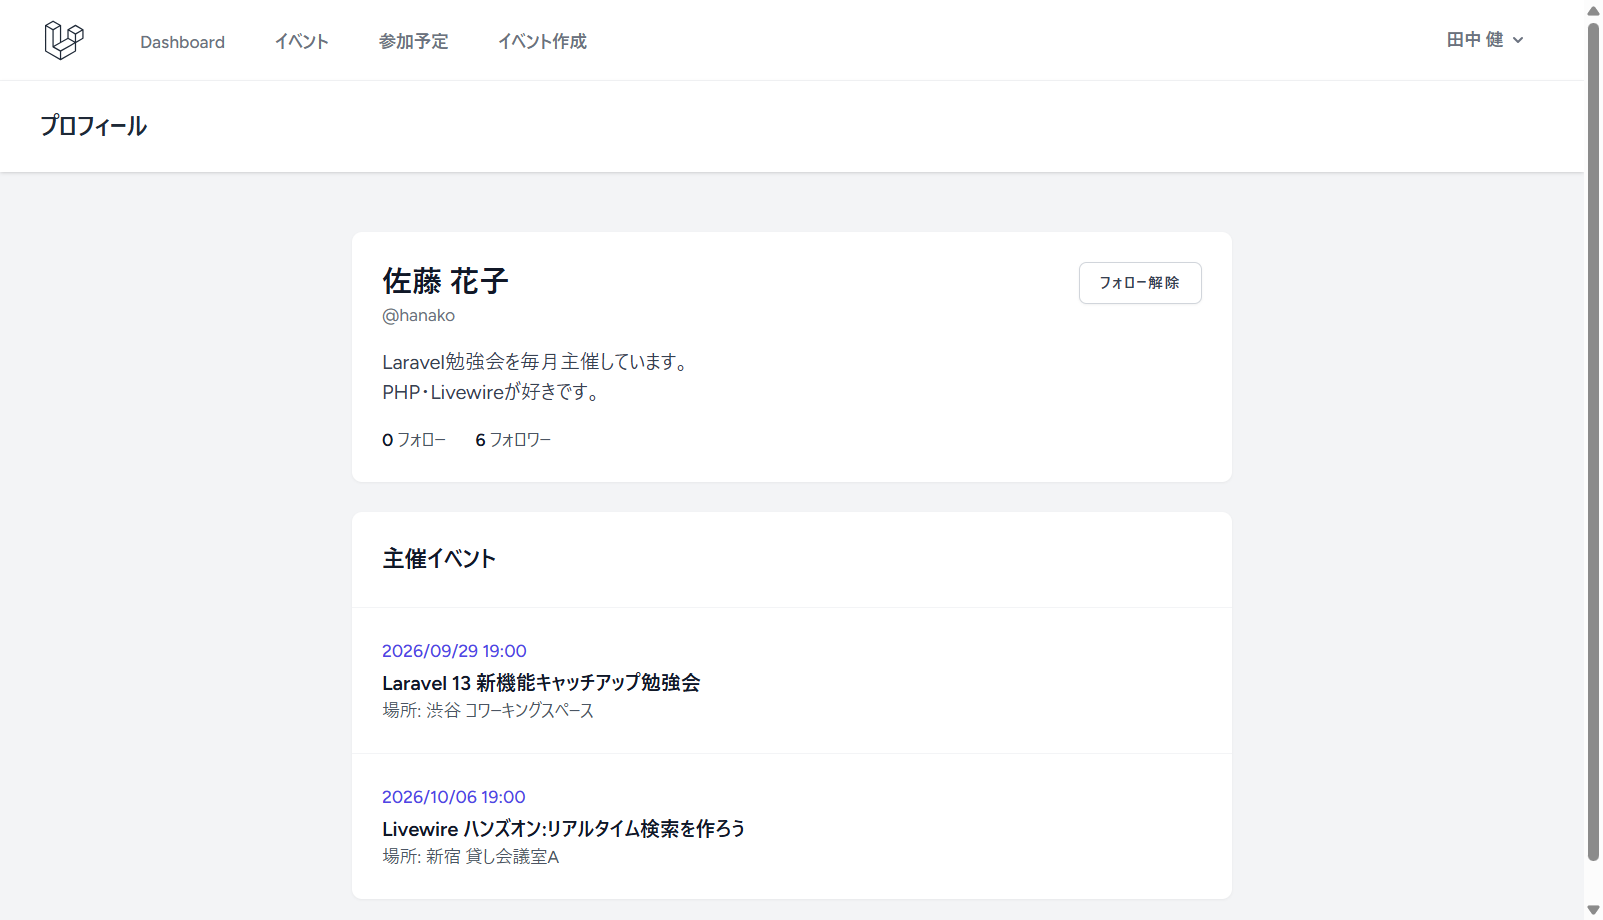
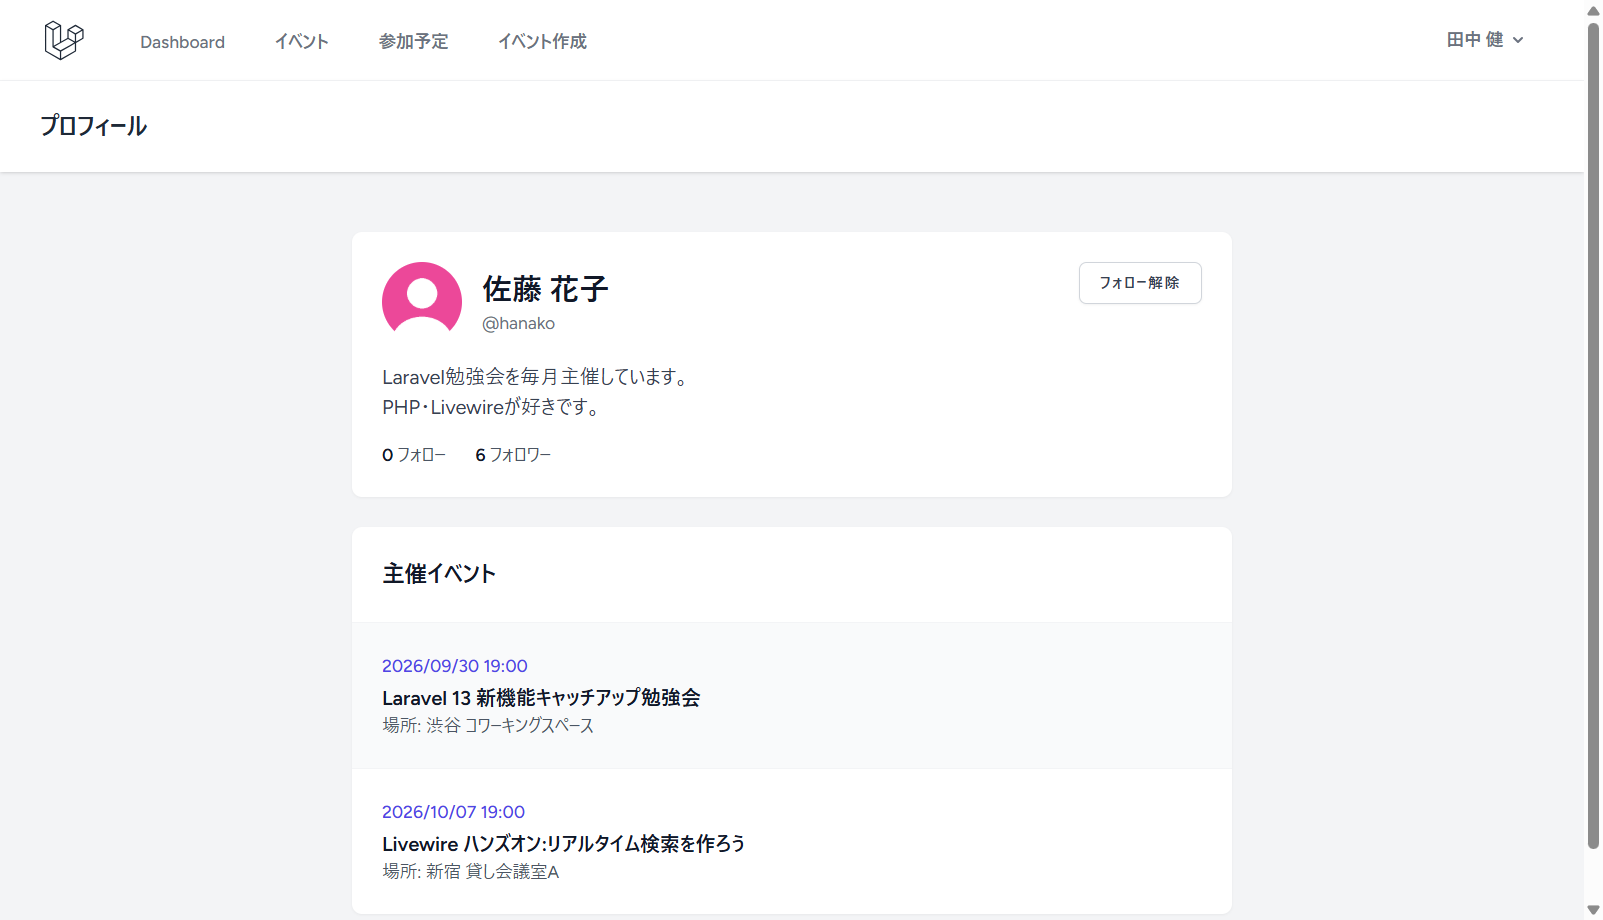
READMEにトップページ・プロフィール編集のスクリーンショットを追加し、プロフィールのスクリーンショットをアイコン付きに更新

diff --git a/README.md b/README.md
@@ -17,6 +17,11 @@
 
 ローカル環境にデモ用のデータを投入して撮影したもの。
 
+| トップページ | プロフィール編集 |
+|---|---|
+| ![トップページ](./docs/images/top.png) | ![プロフィール編集](./docs/images/profile-edit.png) |
+| 未ログインのユーザーに、MeetHubの紹介とログイン・新規登録への導線を表示する | 表示名・自己紹介・アイコン(画像1枚)・メールアドレスを変更できる |
+
 | イベント一覧 | イベント詳細(参加者の画面) |
 |---|---|
 | ![イベント一覧](./docs/images/event-list.png) | ![イベント詳細(参加者の画面)](./docs/images/event-detail.png) |
@@ -25,7 +30,7 @@
 | イベント詳細(主催者の画面) | イベント作成 | プロフィール |
 |---|---|---|
 | ![イベント詳細(主催者の画面)](./docs/images/event-detail-organizer.png) | ![イベント作成](./docs/images/event-create.png) | ![プロフィール](./docs/images/profile.png) |
-| 定員に達したイベント。参加者一覧は主催者のみ閲覧できる | タイトル・開催日時・場所・説明・定員・画像を入力する | 自己紹介・フォロー数・主催イベント。フォロー / フォロー解除 |
+| 定員に達したイベント。参加者一覧は主催者のみ閲覧できる | タイトル・開催日時・場所・説明・定員・画像を入力する | アイコン・自己紹介・フォロー数・主催イベント。フォロー / フォロー解除 |
 
 ## ドキュメント
 
